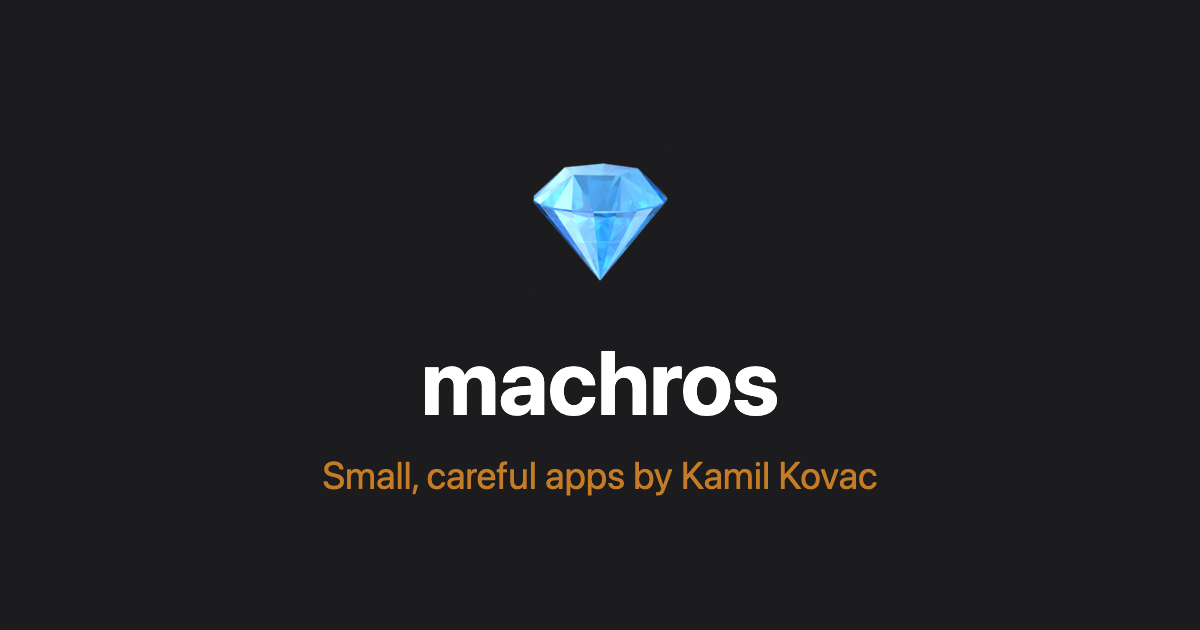
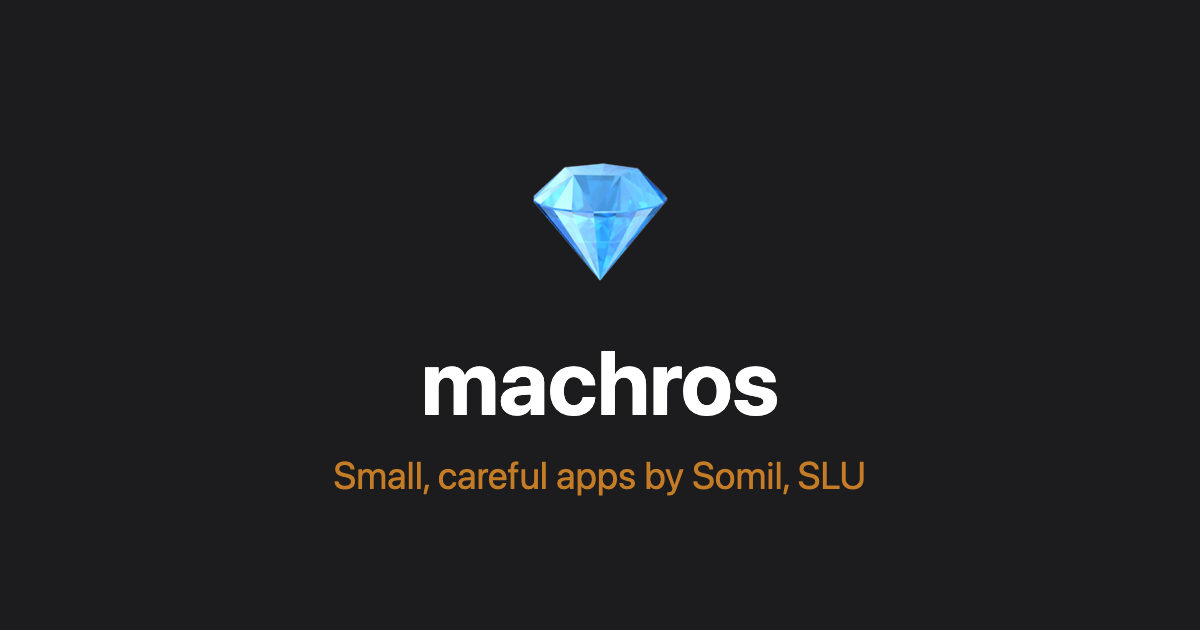
Rebrand to Somil, SLU; update privacy contact email
Claude-Session: https://claude.ai/code/session_012M5hv1W24T1yPNJMiKk2yM

Changed region(s): [[0.2467, 0.7238, 0.74, 0.7841]]

diff --git a/index.html b/index.html
@@ -4,9 +4,9 @@
 <meta charset="utf-8">
 <meta name="viewport" content="width=device-width, initial-scale=1">
 <title>machros</title>
-<meta name="description" content="Small, careful apps by Kamil Kovac — Tesouros, JSON Analyzer, UsageBar.">
+<meta name="description" content="Small, careful apps by Somil, SLU — Tesouros, JSON Analyzer, UsageBar.">
 <meta property="og:title" content="machros">
-<meta property="og:description" content="Small, careful apps by Kamil Kovac — Tesouros, JSON Analyzer, UsageBar.">
+<meta property="og:description" content="Small, careful apps by Somil, SLU — Tesouros, JSON Analyzer, UsageBar.">
 <meta property="og:image" content="https://machros.app/og.png">
 <meta property="og:url" content="https://machros.app/">
 <meta property="og:type" content="website">
@@ -24,7 +24,7 @@
 <body>
 <div class="gem">💎</div>
 <h1>machros</h1>
-<p>Small, careful apps by Kamil Kovac.</p>
+<p>Small, careful apps by Somil, SLU.</p>
 <div class="app">
   <div class="tag">iPhone</div>
   <h2>Tesouros</h2>
@@ -43,6 +43,6 @@
   <p>A free menu-bar app showing your AI subscription usage vs. time — Claude Code, Codex, Cursor and Gemini on one board. Reads the tokens your CLIs already store; nothing leaves your Mac except calls to each vendor's own API. Free · macOS 15+.</p>
   <p><a href="https://github.com/Kamilkov/subscriptions-dashboard/releases/latest">Download</a></p>
 </div>
-<footer>© 2026 Kamil Kovac · <a href="mailto:kamilkov@gmail.com">Contact</a></footer>
+<footer>© 2026 Somil, SLU · <a href="mailto:kamilkov@gmail.com">Contact</a></footer>
 </body>
 </html>

diff --git a/tesouros/privacy.html b/tesouros/privacy.html
@@ -42,7 +42,7 @@
 <p>If this policy ever changes, the updated version will be posted at this address with a new date.</p>
 
 <h2>Contact</h2>
-<p>Questions? Email <a href="mailto:kamilkov@gmail.com">kamilkov@gmail.com</a>.</p>
+<p>Questions? Email <a href="mailto:support@somil-and.com">support@somil-and.com</a>.</p>
 
 <footer><a href="/">machros.app</a></footer>
 </body>
